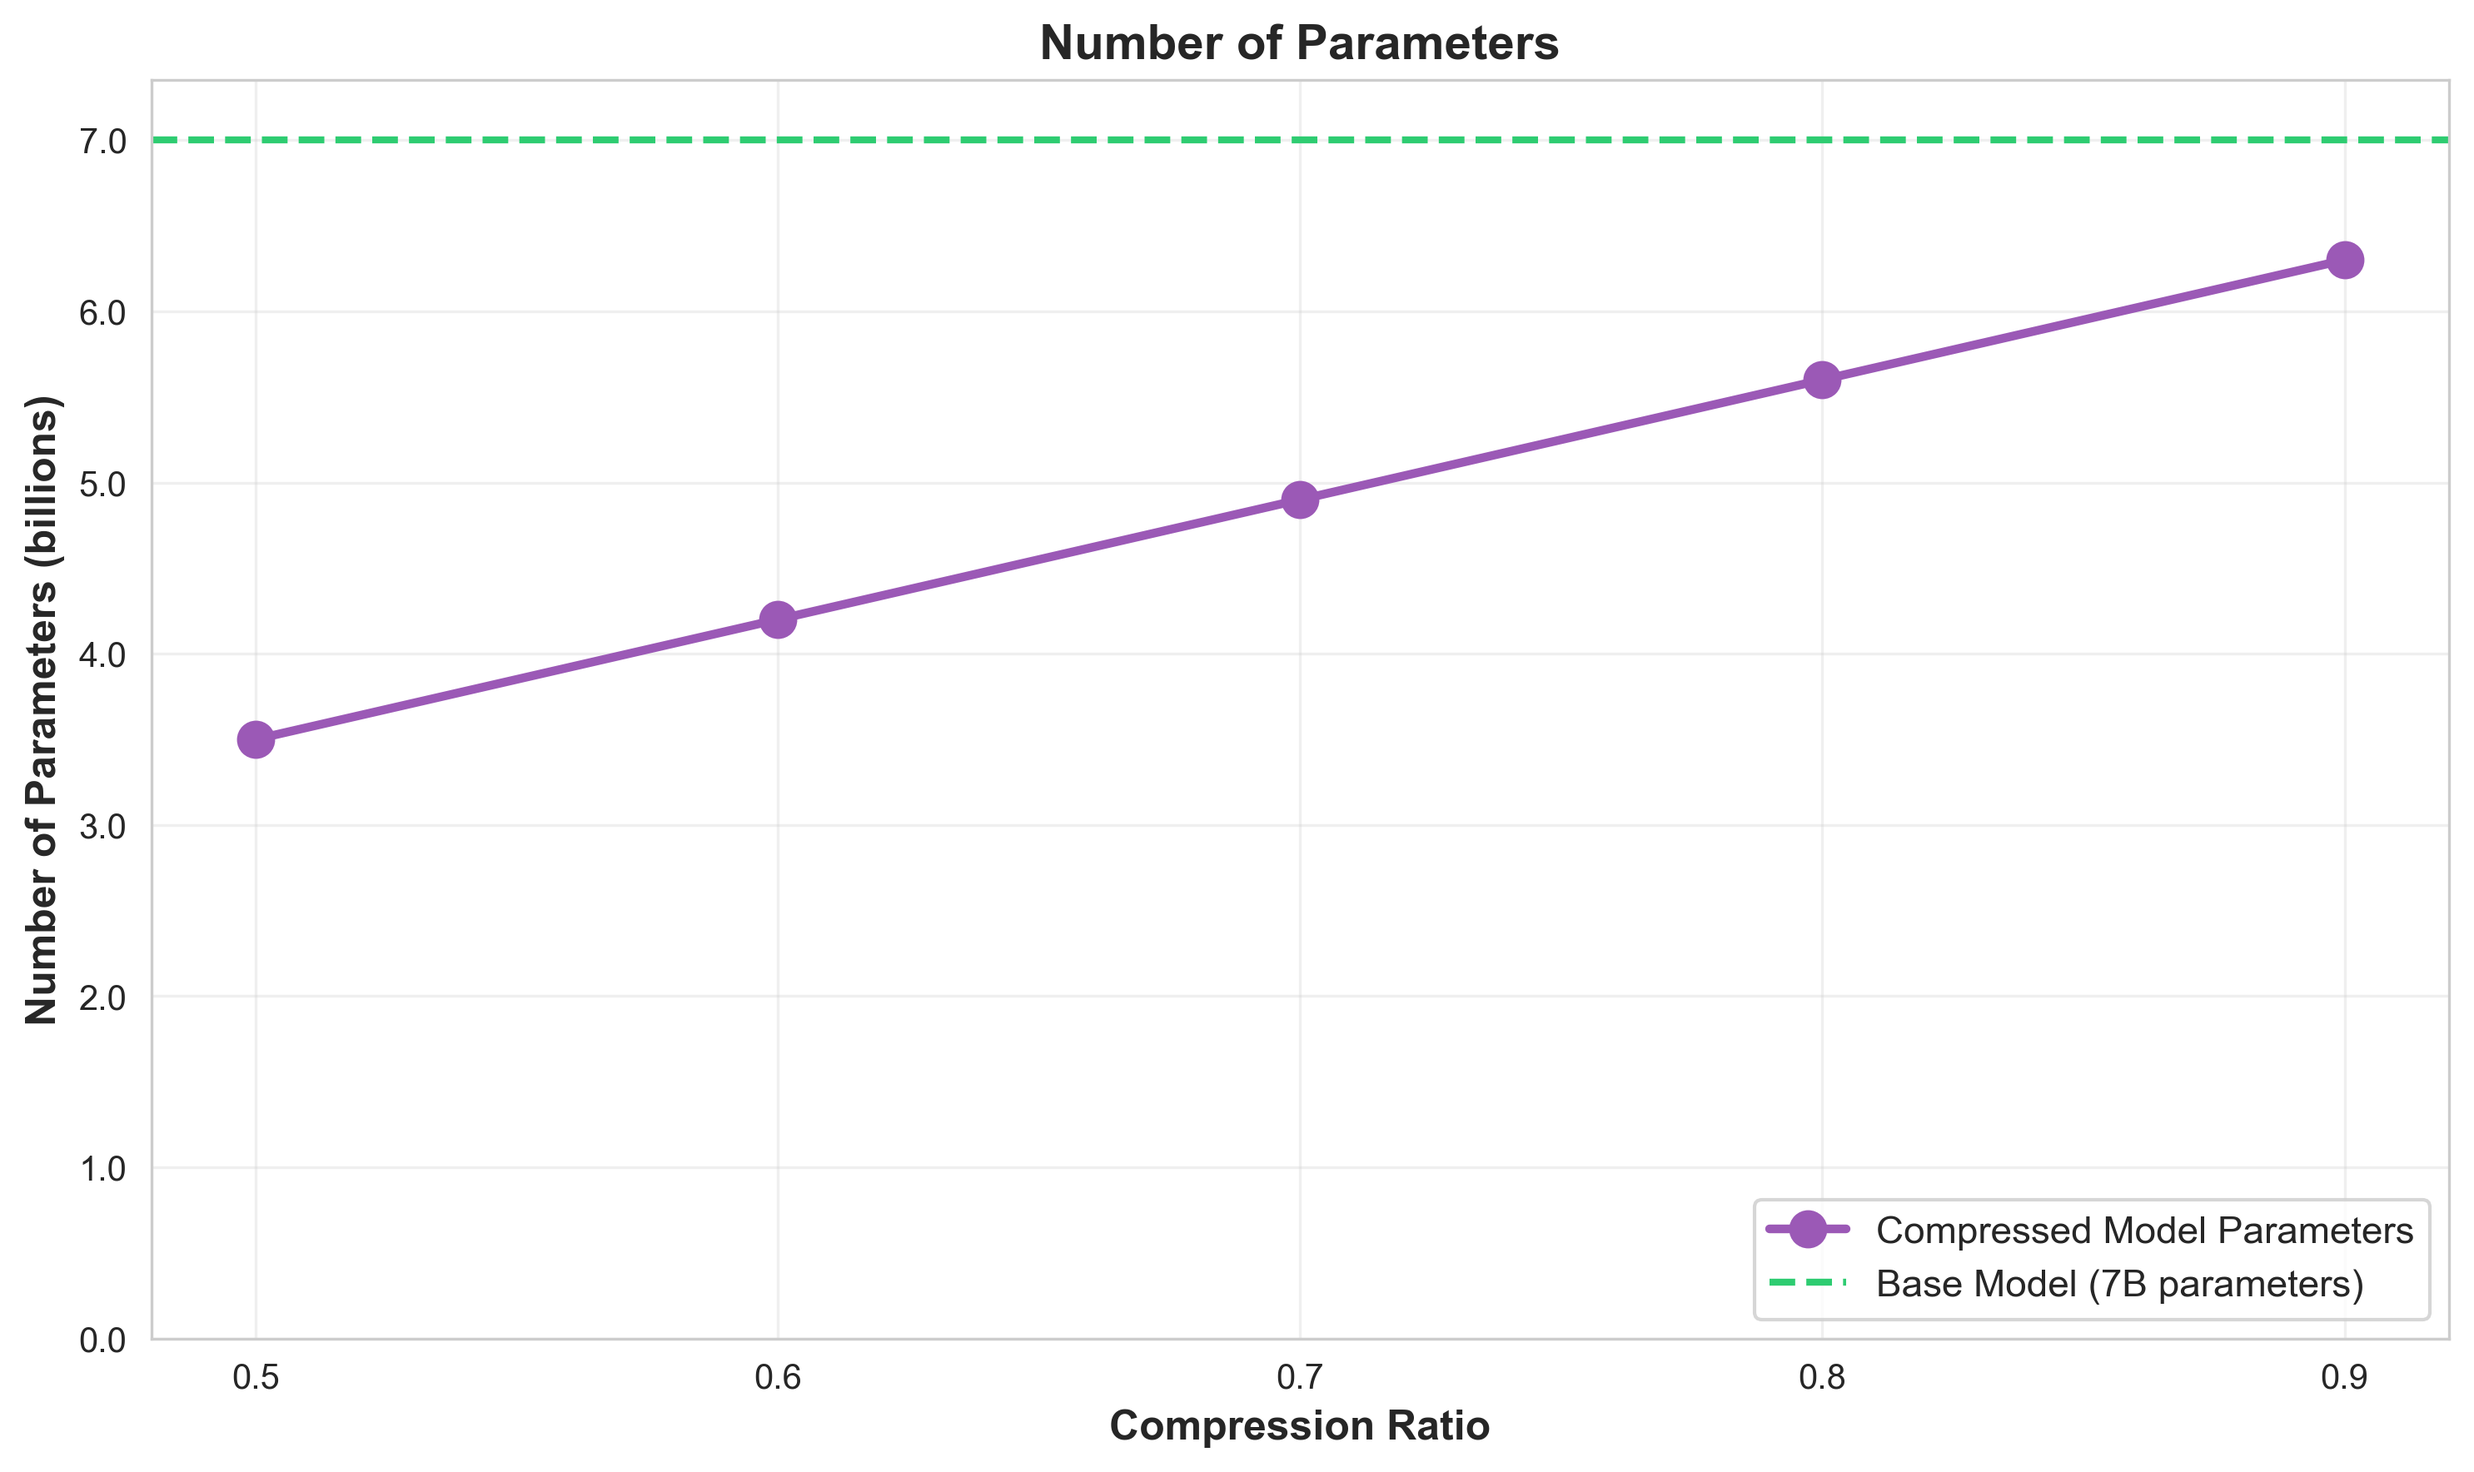
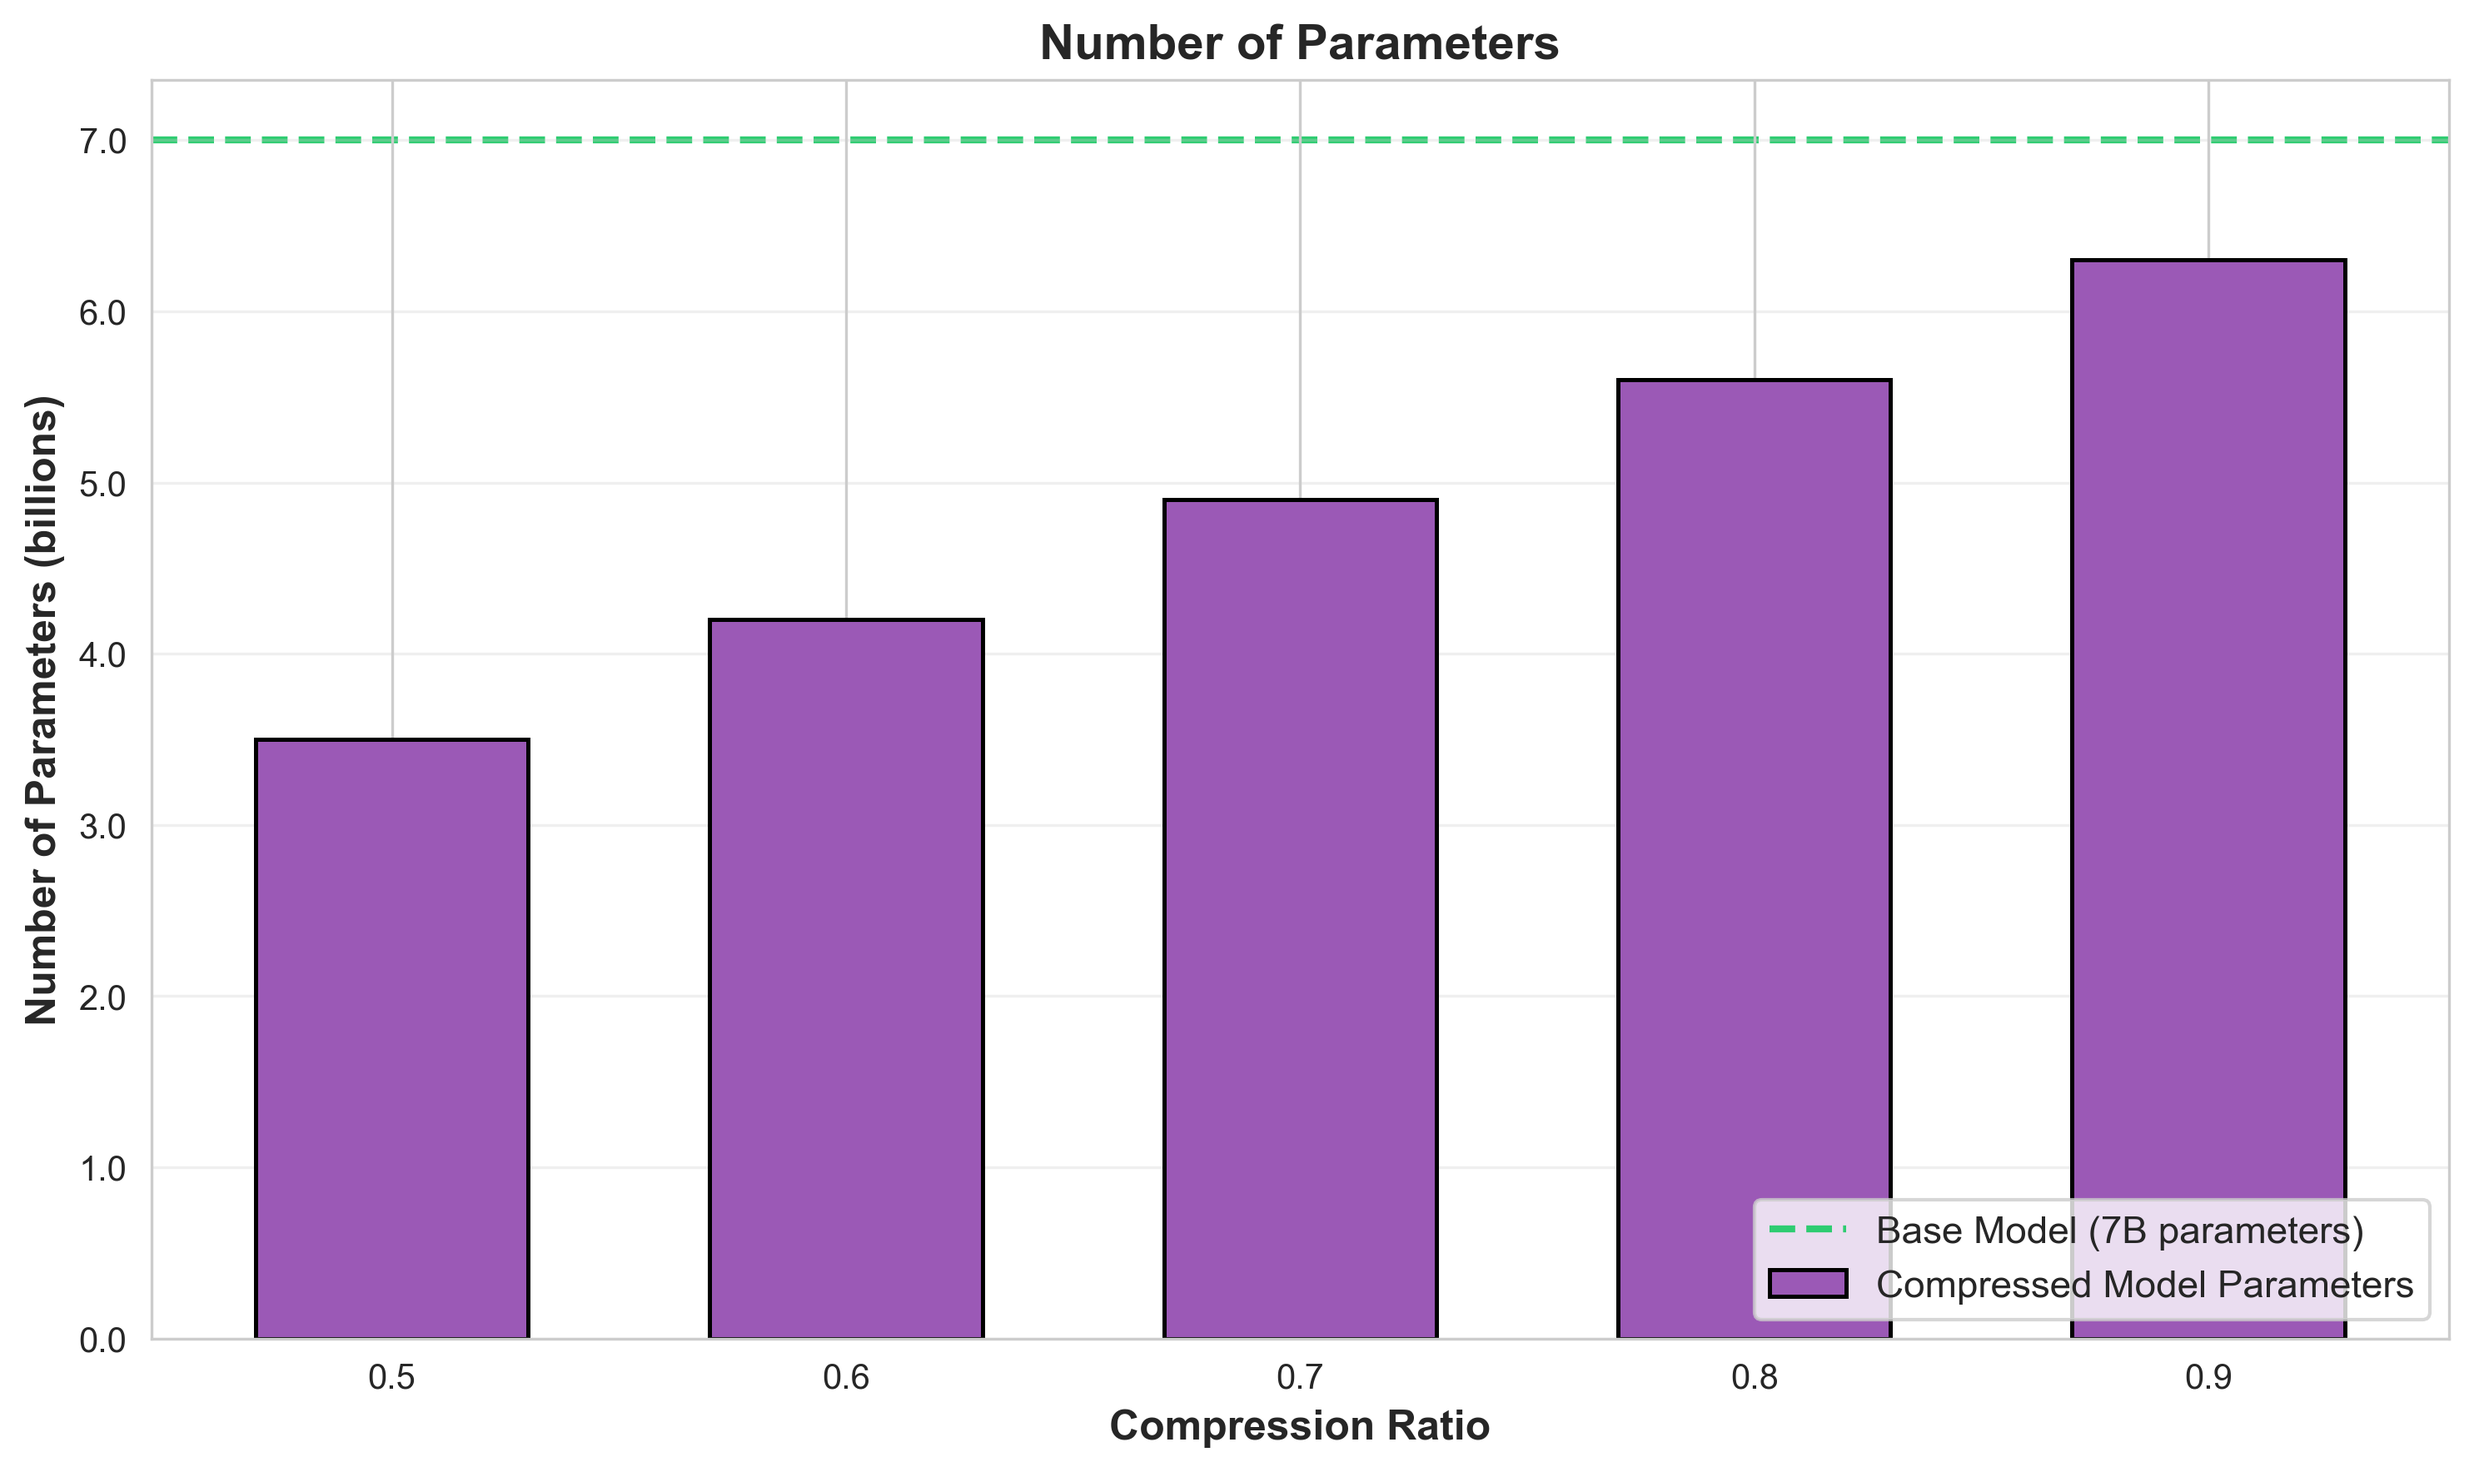
Changed parameters graph to bar chart

diff --git a/graphs/parameters_retained_graph.py b/graphs/parameters_retained_graph.py
@@ -60,28 +60,27 @@ kept_params_count = [kept * total_params for kept in data['kept_params']]
 x_values = [1 - r for r in data['ratio']]
 
 # Create the plot
-plt.figure(figsize=(10, 6))
+fig, ax = plt.subplots(figsize=(10, 6))
 
-# Plot line
-plt.plot(x_values, kept_params_count, marker='o', linewidth=2.5, markersize=10, 
-         color='#9b59b6', label='Compressed Model Parameters')
+# Plot bar chart
+bars = ax.bar(x_values, kept_params_count, width=0.06, color='#9b59b6', 
+              label='Compressed Model Parameters', edgecolor='black', linewidth=1.2)
 
 # Add horizontal line for base model
-plt.axhline(y=total_params, color='#2ecc71', linestyle='--', linewidth=2, 
-            label='Base Model (7B parameters)')
+ax.axhline(y=total_params, color='#2ecc71', linestyle='--', linewidth=2, 
+           label='Base Model (7B parameters)', zorder=0)
 
 # Customize plot
-plt.xlabel('Compression Ratio', fontsize=12, fontweight='bold')
-plt.ylabel('Number of Parameters (billions)', fontsize=12, fontweight='bold')
-plt.title('Number of Parameters', fontsize=14, fontweight='bold')
-plt.legend(fontsize=11, loc='lower right')
-plt.grid(True, alpha=0.3)
+ax.set_xlabel('Compression Ratio', fontsize=12, fontweight='bold')
+ax.set_ylabel('Number of Parameters (billions)', fontsize=12, fontweight='bold')
+ax.set_title('Number of Parameters', fontsize=14, fontweight='bold')
+ax.legend(fontsize=11, loc='lower right')
+ax.grid(True, alpha=0.3, axis='y')
 
 # Set axis limits and ticks
-plt.xticks([1 - r for r in ratios])
-plt.ylim([0, total_params * 1.05])
+ax.set_xticks([1 - r for r in ratios])
+ax.set_ylim([0, total_params * 1.05])
 # Format y-axis to show billions
-ax = plt.gca()
 ax.yaxis.set_major_formatter(plt.FuncFormatter(lambda x, p: f'{x/1e9:.1f}'))
 
 
